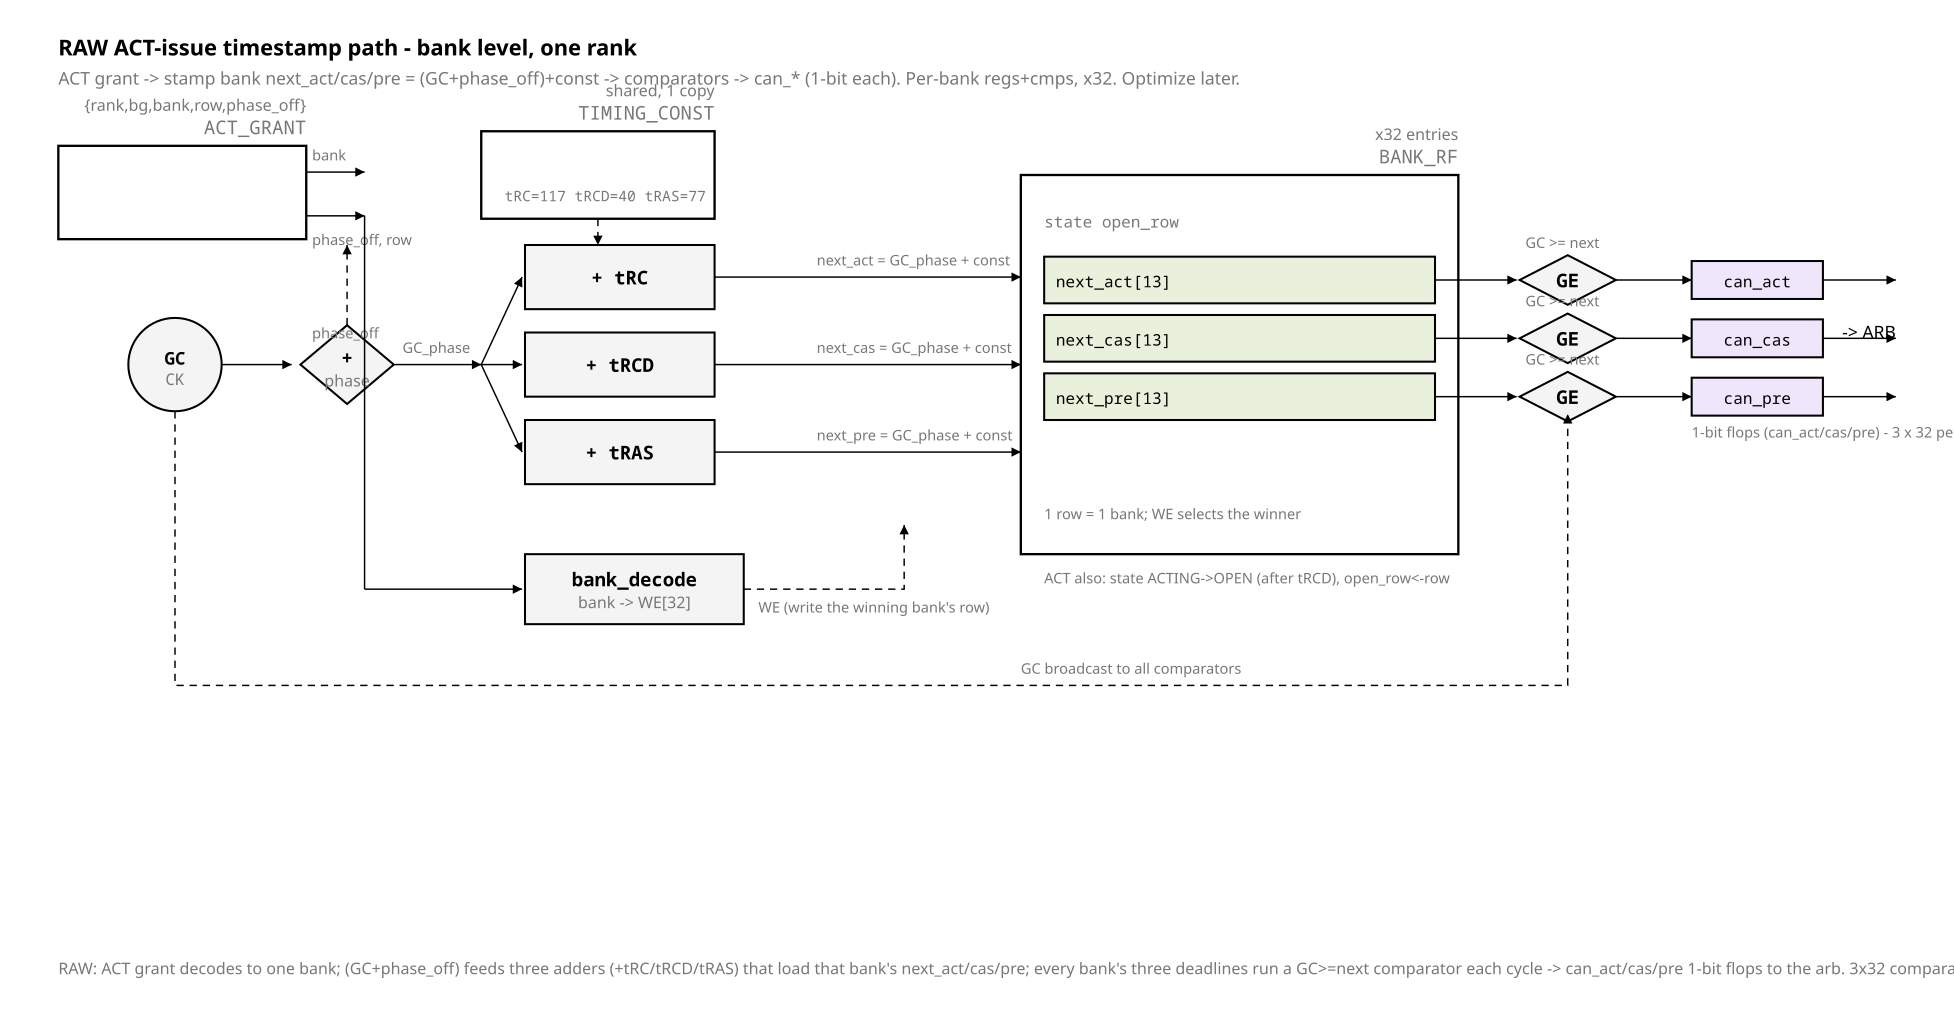
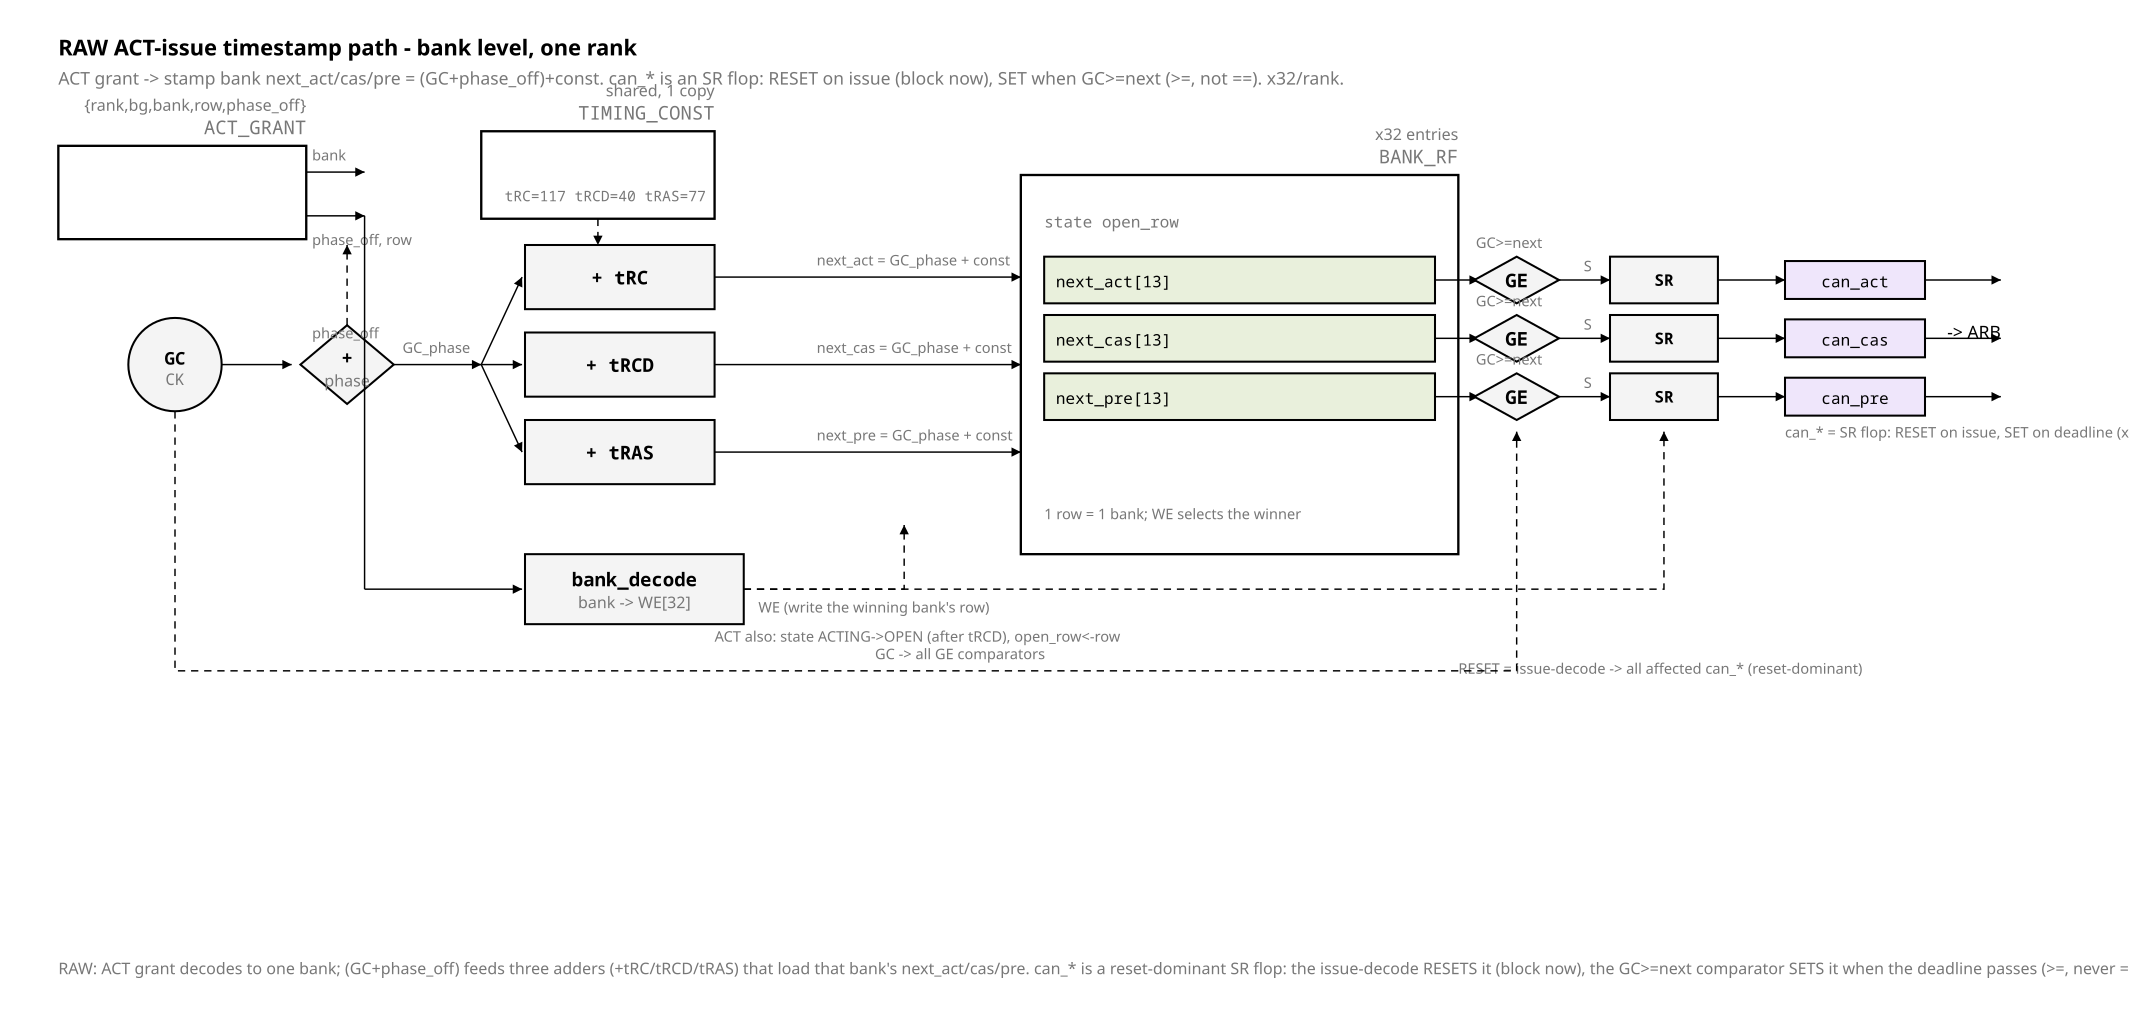
sched-rebuild: fig_52 v2 - can_* as reset-dominant SR flop
RESET = issue-decode (block now, reset-dominant); SET = GE (GC>=next), never ==.
Registered form of the comparator: immediate block on issue, set when deadline
passes. x3 x32/rank.

Claude-Session: https://claude.ai/code/session_01KeZpnsTmiABbSM1StVyWVX

diff --git a/docs/sched_rebuild/fig/fig_52_act_timestamp_raw.py b/docs/sched_rebuild/fig/fig_52_act_timestamp_raw.py
@@ -6,7 +6,7 @@ from rtlfig import (Fig, MUTED, FILL_NEW, FILL_LOGIC, FILL_CELL, FILL_ACTIVE,
 # (GC+phase_off)+const -> comparators -> can_act/cas/pre (1-bit each). x32/rank.
 # Unoptimized on purpose; optimize later.
 
-f = Fig(1340, 700)
+f = Fig(1460, 700)
 
 
 def cnote(x, y, s, anchor="start"):
@@ -15,8 +15,8 @@ def cnote(x, y, s, anchor="start"):
 
 f.text(40, 38, "RAW ACT-issue timestamp path - bank level, one rank", size=15,
        mono=False, bold=True)
-f.note(40, 58, "ACT grant -> stamp bank next_act/cas/pre = (GC+phase_off)+const -> "
-               "comparators -> can_* (1-bit each). Per-bank regs+cmps, x32. Optimize later.")
+f.note(40, 58, "ACT grant -> stamp bank next_act/cas/pre = (GC+phase_off)+const. can_* is an "
+               "SR flop: RESET on issue (block now), SET when GC>=next (>=, not ==). x32/rank.")
 
 # ---- ACT grant ----
 g = f.block(40, 100, 170, 64, "ACT_GRANT", "{rank,bg,bank,row,phase_off}")
@@ -62,29 +62,36 @@ for i, nm in enumerate(["next_act[13]", "next_cas[13]", "next_pre[13]"]):
     f.text(724, 197 + i * 40, nm, size=11, mono=True)
 cnote(716, 356, "1 row = 1 bank; WE selects the winner")
 
-# ---- comparators -> can_* ----
+# ---- SET (comparator) + RESET (issue) -> SR flop -> can_* ----
+# reset bus from issue-decode into the SR-flop stack (shared, reset-dominant)
+f.path("M510 404 H1141 V296", arrow=True, dashed=True)
+cnote(1000, 462, "RESET = issue-decode -> all affected can_* (reset-dominant)")
 for i, (nm, y) in enumerate([("can_act", 192), ("can_cas", 232), ("can_pre", 272)]):
-    f.line(984, y, 1040, y, arrow=True)
-    cmp = f.decision(1075, y, 66, 34, "GE")
-    cnote(1046, y - 22, "GC >= next")
-    f.line(1108, y, 1160, y, arrow=True)
-    f.rect(1160, y - 13, 90, 26, fill=FILL_NEW, width=W_CELL)
-    f.text(1205, y + 5, nm, size=11, mono=True, anchor="middle")
-    f.line(1250, y, 1300, y, arrow=True)
-# GC into comparators
-f.path("M120 282 V470 H1075 V284", arrow=True, dashed=True)
-cnote(700, 462, "GC broadcast to all comparators")
-f.text(1300, 232, "-> ARB", size=12, mono=False, anchor="end")
-cnote(1160, 300, "1-bit flops (can_act/cas/pre) - 3 x 32 per rank")
+    f.line(984, y, 1014, y, arrow=True)
+    f.decision(1040, y, 58, 32, "GE")
+    cnote(1012, y - 22, "GC>=next")
+    f.line(1069, y, 1104, y, arrow=True)
+    cnote(1086, y - 6, "S")
+    f.rect(1104, y - 16, 74, 32, fill=FILL_LOGIC, width=W_CELL)
+    f.text(1141, y + 4, "SR", size=11, anchor="middle", bold=True)
+    f.line(1178, y, 1224, y, arrow=True)
+    f.rect(1224, y - 13, 96, 26, fill=FILL_NEW, width=W_CELL)
+    f.text(1272, y + 5, nm, size=11, mono=True, anchor="middle")
+    f.line(1320, y, 1372, y, arrow=True)
+# GC broadcast to all GE
+f.path("M120 282 V460 H1040 V296", arrow=True, dashed=True)
+cnote(600, 452, "GC -> all GE comparators")
+f.text(1372, 232, "-> ARB", size=12, mono=False, anchor="end")
+cnote(1224, 300, "can_* = SR flop: RESET on issue, SET on deadline (x3 x32/rank)")
 
 # ---- state note ----
-cnote(716, 400, "ACT also: state ACTING->OPEN (after tRCD), open_row<-row")
+cnote(490, 440, "ACT also: state ACTING->OPEN (after tRCD), open_row<-row")
 
 f.caption(40, 668,
-          "RAW: ACT grant decodes to one bank; (GC+phase_off) feeds three adders "
-          "(+tRC/tRCD/tRAS) that load that bank's next_act/cas/pre; every bank's three "
-          "deadlines run a GC>=next comparator each cycle -> can_act/cas/pre 1-bit flops to "
-          "the arb. 3x32 comparators/rank - shared const table, no other sharing yet.")
+          "RAW: ACT grant decodes to one bank; (GC+phase_off) feeds three adders (+tRC/tRCD/tRAS) "
+          "that load that bank's next_act/cas/pre. can_* is a reset-dominant SR flop: the "
+          "issue-decode RESETS it (block now), the GC>=next comparator SETS it when the deadline "
+          "passes (>=, never ==, or gear skips it). 3x32 flops+cmps/rank; shared const table.")
 
 f.save("fig_52_act_timestamp_raw.svg")
 print("wrote fig_52_act_timestamp_raw.svg")
